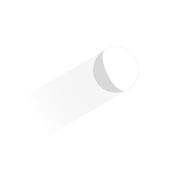
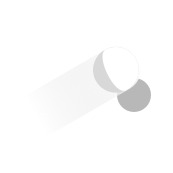
modificaciones de estilo y nuevo icono

Changed region(s): [[0.6647, 0.4624, 0.896, 0.6647]]

diff --git a/_sass/_layout.scss b/_sass/_layout.scss
@@ -2,42 +2,20 @@
  * Site header
  */
 .site-header {
-    border-bottom: 8px solid #607758;
     min-height: 56px;
+    background:#1E1E1E;
     height: 80vh;
-    background-image: url(../images/bg-blue-table.png);
     display: flex;
     align-items: center;
     justify-content: center;
     flex-direction: column;
-
     // Positioning context for the mobile navigation icon
     position: relative;
 }
 
-.site-title {
-    max-width: 500px;
-    font-size: 72px;
-    font-weight: 800;
-    line-height: 70px;
-    letter-spacing: -1px;
-    padding: 30px;
-    padding-top:80px;
-    padding-bottom:15px;
-    color:$text-color;
-    background-image: url(../images/ball.png);
-    background-repeat: no-repeat;
-    background-position: top right;
-}
-.site-sub-title{
-  font-size: 26px;
-  font-weight: 300;
-  line-height: 56px;
-  letter-spacing: -1px;
-  margin-bottom: 50px;
-  padding: 0;
-  display:inline-block;
-  color:$text-color;
+.tournament-crest{
+    max-width: 300px;
+
 }
 
 .site-nav {

diff --git a/_includes/header.html b/_includes/header.html
@@ -1,4 +1,5 @@
 <header class="site-header">
-  <h1 class="site-title">Ping Pong en la oficina.  <span class="site-sub-title"><time datetime='2017-4-14'>Miercoles, 14 de Abril.</time></span></h1>
+
+  <img class="tournament-crest" src="images/Group.png" alt="Ping Pong en la Oficina.">
 
 </header>

diff --git a/css/main.scss b/css/main.scss
@@ -16,7 +16,7 @@ $spacing-unit:     30px;
 
 $text-color:       #111;
 $background-color: #fdfdfd;
-$brand-color:      #2a7ae2;
+$brand-color:      #F55B64;
 
 $grey-color:       #828282;
 $grey-color-light: lighten($grey-color, 40%);

diff --git a/_sass/_base.scss b/_sass/_base.scss
@@ -23,7 +23,6 @@ body {
     -o-font-feature-settings: "kern" 1;
     font-feature-settings: "kern" 1;
     font-kerning: normal;
-    border:15px solid white;
 }
 
 

diff --git a/_layouts/default.html b/_layouts/default.html
@@ -13,9 +13,8 @@
       </div>
     </div>
 
-    {% include footer.html %}
+  
 
   </body>
 
 </html>
- 
